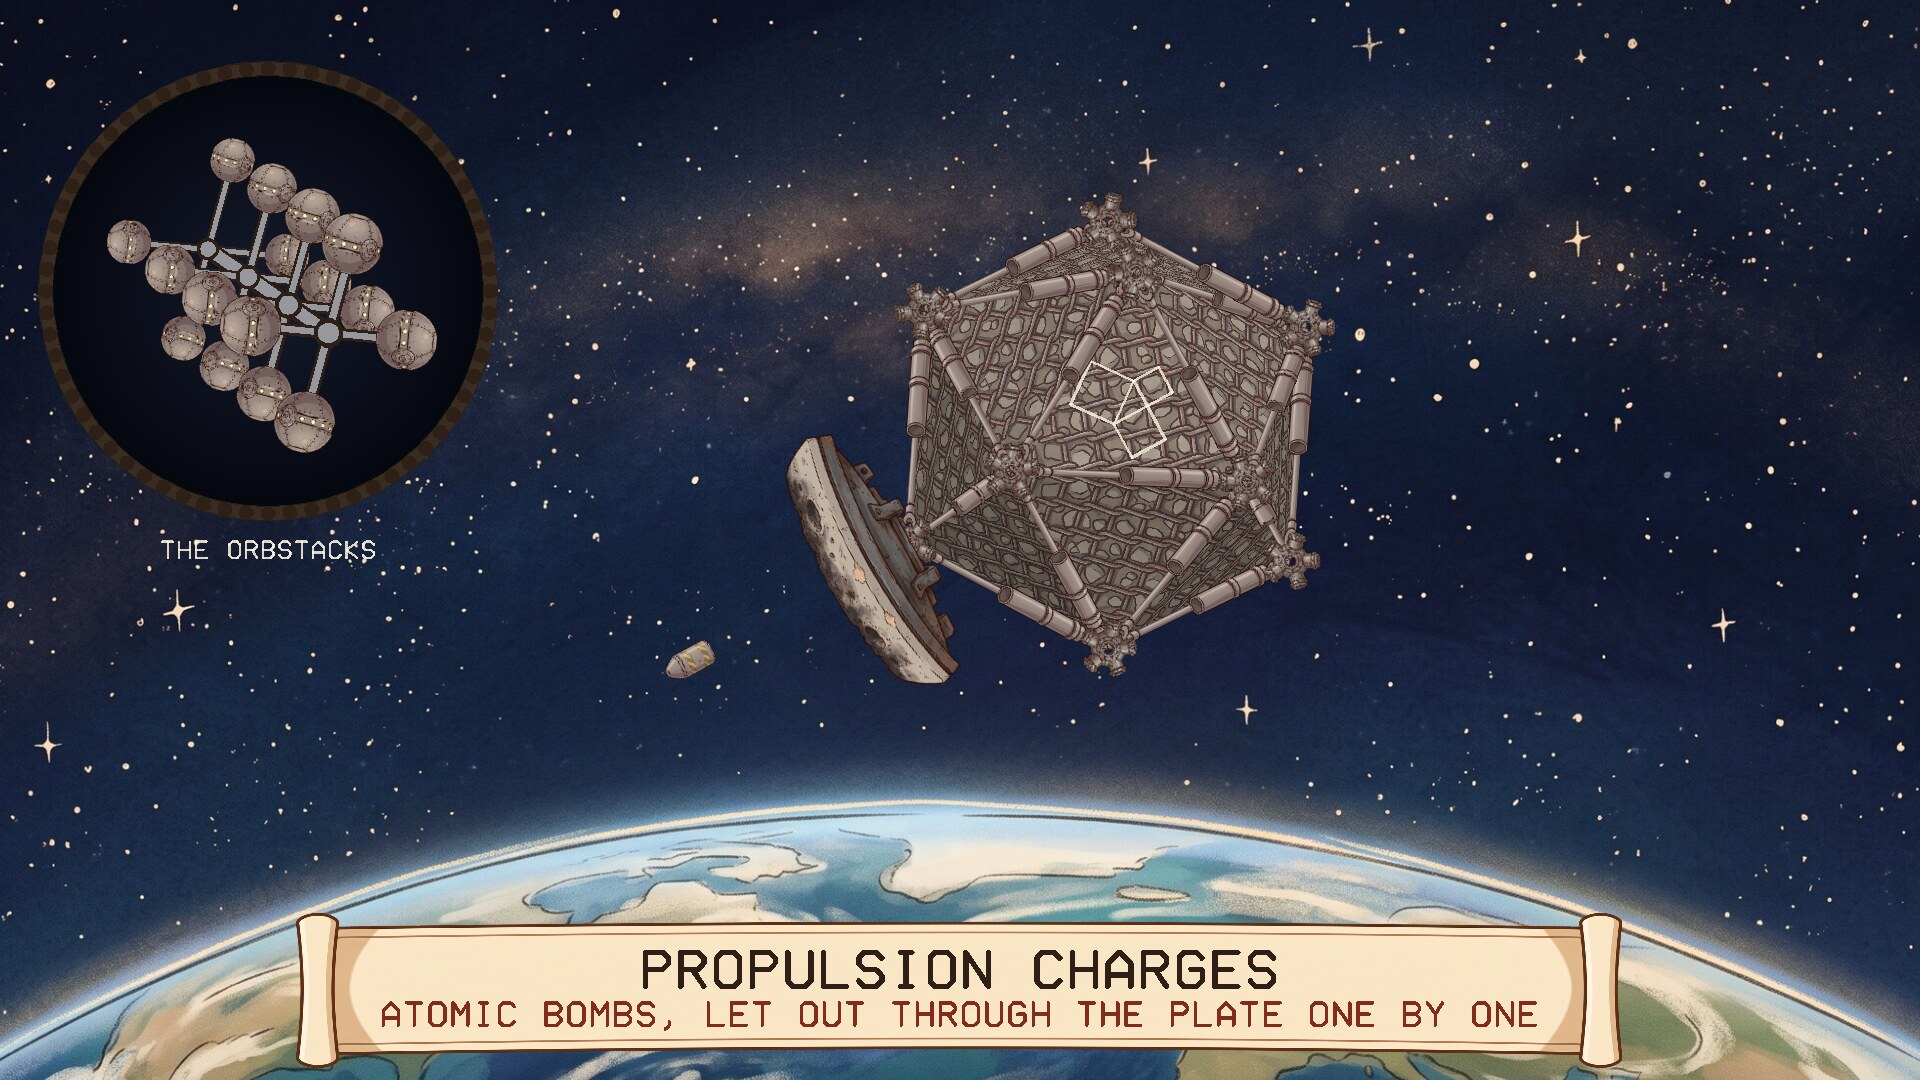
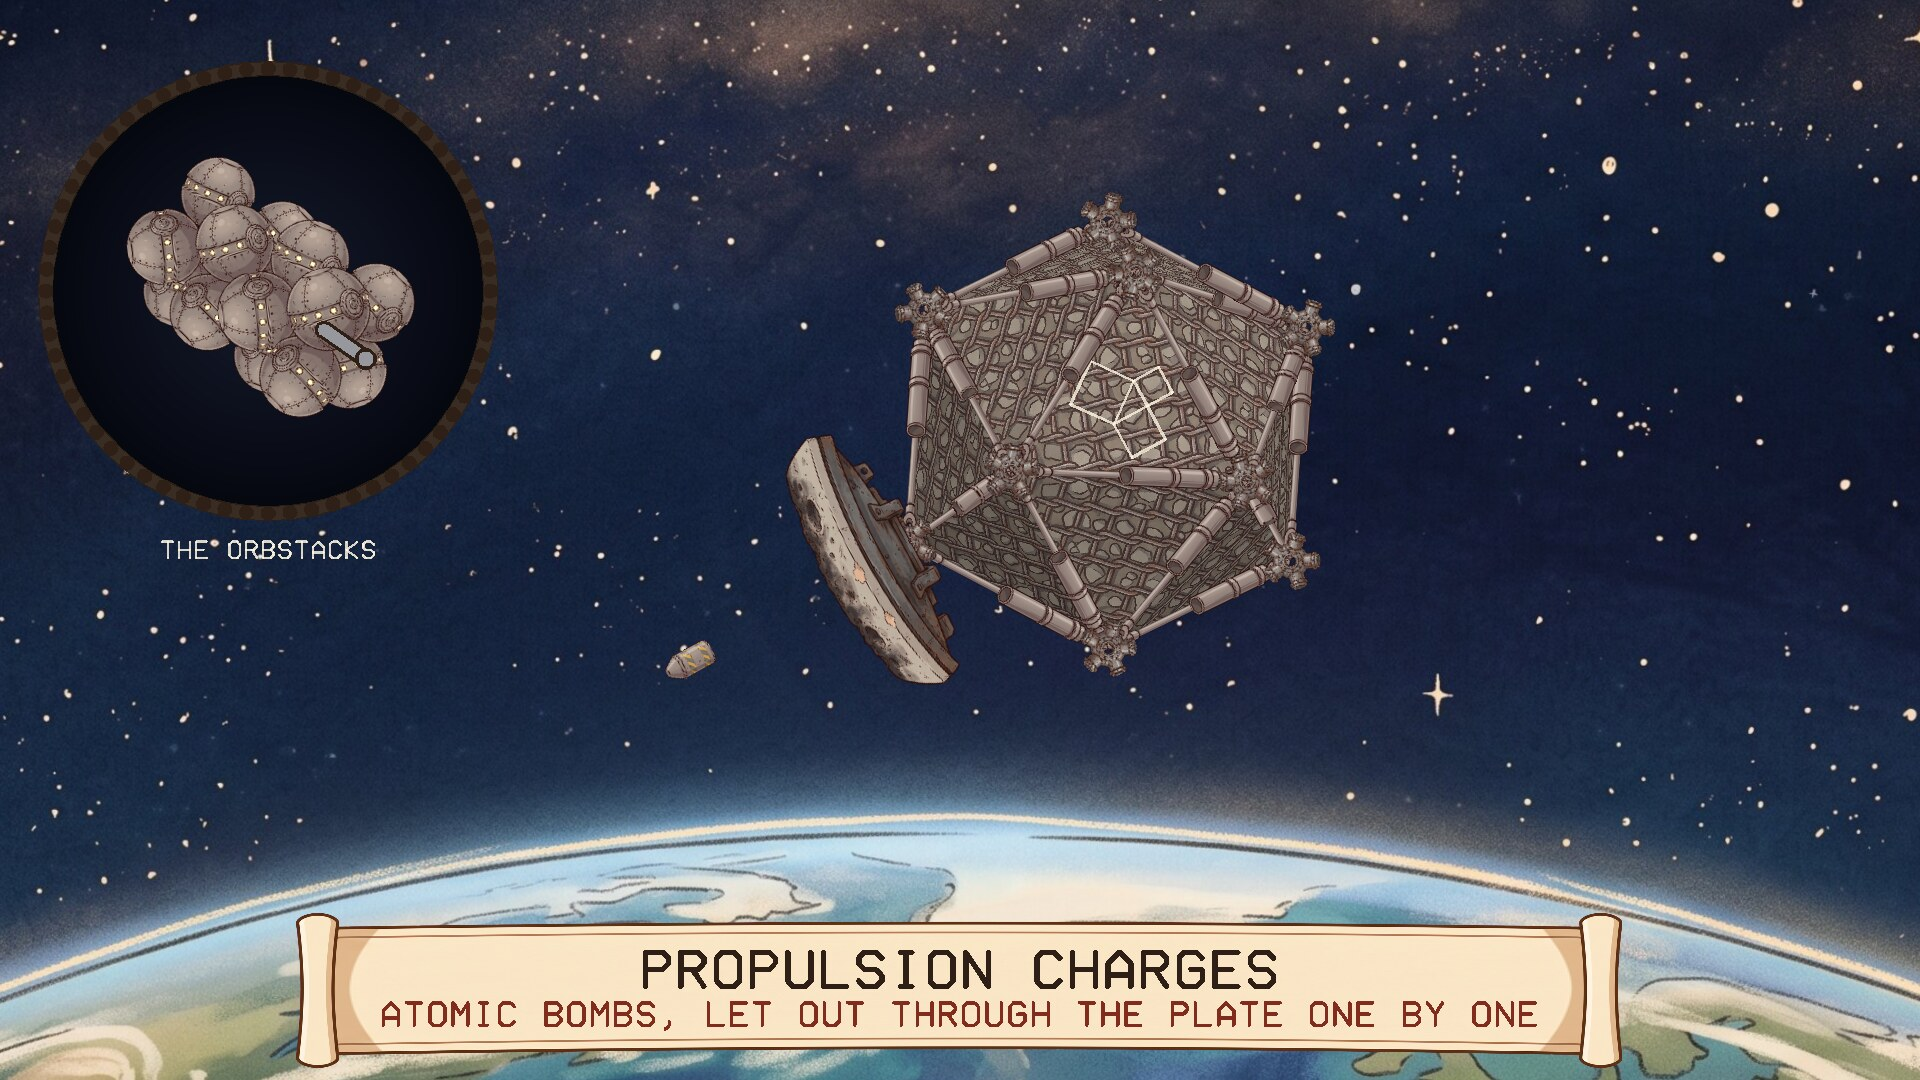
Nested orbstacks, and Arbre going by underneath

diff --git a/src/urnud.c b/src/urnud.c
@@ -478,7 +478,7 @@ static void caption(const char **l1, const char **l2)
 {
     static char count[64];
     *l1 = "THE DABAN URNUD"; *l2 = "THE GEOMETERS' SHIP, IN ORBIT ABOUT ARBRE";
-    if (T > 8) { *l1 = "INSIDE, THE ORBSTACKS TURN ABOUT THE CORE"; *l2 = "SIXTEEN ORBS, FOUR FOR EACH RACE: URNUD, TRO, LATERRE AND FTHOS"; }
+    if (T > 8) { *l1 = "INSIDE, THE ORBSTACKS TURN ABOUT THE CORE"; *l2 = "FOUR LEVELS OF FOUR ORBS, EACH NESTED IN THE HOLLOWS OF THE LAST"; }
     if (T >= T_TURN) { *l1 = "A CHANGE OF COURSE"; *l2 = "NO THRUSTERS: COUNTERWEIGHTS ON TRACKS INSIDE SWING IT ROUND"; }
     if (T >= T_BURN - 3) { *l1 = "PROPULSION CHARGES"; *l2 = "ATOMIC BOMBS, LET OUT THROUGH THE PLATE ONE BY ONE"; }
     if (T >= T_BURN + 12) { *l1 = "THIRTY STRUTS, EVERY ONE A SHOCK ABSORBER"; *l2 = "THE BLOW RUNS FORWARD THROUGH THE WHOLE FRAME"; }
@@ -504,44 +504,42 @@ static void draw_caption(int w, int h, const char *l1, const char *l2)
     text(l2, w / 2.0, by + bh * 0.25 + s1 * 6 + unit * 1.2, s2, 0.9, col(CHORD, 1));
 }
 
-/* The Core in a round window, seen a little from one side so that the stacks show:
- * four rings of four orbs, one ring behind another along the Core, all going
- * round together. */
+/* The orbstacks in a round window, seen a little from one side: four levels of
+ * four orbs about the Core. The four in a level touch, and each level is turned an
+ * eighth of a turn from the last, so that its orbs nest in the hollows between
+ * the ones behind. They all go round together. */
 static void draw_core(double cx, double cy, double R)
 {
     disc(cx, cy, R * 1.06, col(STEEL, 1), col(STEEL, 1));
     disc(cx, cy, R, col(DEEP, 1), col(BG, 1));
     /* the Core points out of the picture, down and to the right; z is towards us */
-    double tilt = 0.66, ax = sin(tilt) * 0.82, ay = sin(tilt) * 0.57, az = cos(tilt);
+    double tilt = 1.05, ax = sin(tilt) * 0.82, ay = sin(tilt) * 0.57, az = cos(tilt);
     double ux = -0.57, uy = 0.82;                              /* across the Core, flat on the screen */
-    double vx = ay * 0 - az * uy, vy = az * ux - ax * 0, vz = ax * uy - ay * ux; /* and the other way across */
-    double reach = R * 0.44, gap = R * 0.37, orb = R * 0.25;
-    for (int k = 0; k < 4; k++) { /* the farthest ring first */
-        double along = (k - 1.5) * gap, hx = cx + ax * along, hy = cy + ay * along;
-        double nx = cx + ax * (along + gap), ny = cy + ay * (along + gap), size = 1 + 0.1 * (k - 1.5);
-        struct { double x, y, z, deg; } o[4];
-        for (int i = 0; i < 4; i++) {
-            double a = spin + i * M_PI / 2, c = cos(a), sn = sin(a);
-            o[i].x = hx + (ux * c + vx * sn) * reach; o[i].y = hy + (uy * c + vy * sn) * reach; o[i].z = vz * sn;
-            o[i].deg = atan2(o[i].y - hy, o[i].x - hx) * 180 / M_PI + 90;
-        }
-        for (int i = 0; i < 4; i++) for (int j = i + 1; j < 4; j++) /* far side of the ring first */
-            if (o[j].z < o[i].z) { double t[4] = {o[i].x, o[i].y, o[i].z, o[i].deg}; o[i] = o[j]; o[j].x = t[0]; o[j].y = t[1]; o[j].z = t[2]; o[j].deg = t[3]; }
-        for (int half = 0; half < 2; half++) {
-            for (int i = half * 2; i < half * 2 + 2; i++) {
-                line(hx, hy, o[i].x, o[i].y, R * 0.05 * size, col(INK, 1));
-                line(hx, hy, o[i].x, o[i].y, R * 0.028 * size, col(STEEL, 1));
-                flush(ren);
-                turned(SP_ORB, o[i].x, o[i].y, orb * size, o[i].deg);
-            }
-            if (half == 0 && k < 3) { /* the Core itself, on to the next ring, between the far orbs and the near */
-                line(hx, hy, nx, ny, R * 0.085, col(INK, 1));
-                line(hx, hy, nx, ny, R * 0.055, col(STEEL, 1));
-            }
-        }
-        disc(hx, hy, R * 0.06 * size, col(INK, 1), col(INK, 1));
-        disc(hx, hy, R * 0.042 * size, col(STEEL, 1), col(STEEL, 1));
+    double vx = -az * uy, vy = az * ux, vz = ax * uy - ay * ux; /* and the other way across */
+    double rho = R * 0.18, reach = rho * 1.4142, gap = rho * 1.682; /* touching in the ring, and nested level on level */
+    struct { double x, y, z, hx, hy, deg; } o[16], t;
+    for (int k = 0; k < 4; k++) for (int i = 0; i < 4; i++) {
+        double along = (k - 1.5) * gap, a = spin + i * M_PI / 2 + k * M_PI / 4, c = cos(a), sn = sin(a);
+        int n = k * 4 + i;
+        o[n].hx = cx + ax * along; o[n].hy = cy + ay * along;
+        o[n].x = o[n].hx + (ux * c + vx * sn) * reach; o[n].y = o[n].hy + (uy * c + vy * sn) * reach;
+        o[n].z = az * along + vz * sn * reach;
+        o[n].deg = atan2(o[n].y - o[n].hy, o[n].x - o[n].hx) * 180 / M_PI + 90;
     }
+    for (int i = 0; i < 16; i++) for (int j = i + 1; j < 16; j++) if (o[j].z < o[i].z) { t = o[i]; o[i] = o[j]; o[j] = t; }
+    double e0 = -2.1 * gap, e1 = 2.1 * gap;
+    line(cx + ax * e0, cy + ay * e0, cx + ax * e1, cy + ay * e1, R * 0.085, col(INK, 1));
+    line(cx + ax * e0, cy + ay * e0, cx + ax * e1, cy + ay * e1, R * 0.055, col(STEEL, 1));
+    flush(ren);
+    for (int n = 0; n < 16; n++) {
+        double size = 1 + 0.12 * o[n].z / (2 * gap);
+        turned(SP_ORB, o[n].x, o[n].y, 2 * rho * size, o[n].deg);
+    }
+    /* the near end of the Core, standing out in front of the nearest level */
+    line(cx + ax * 1.2 * gap, cy + ay * 1.2 * gap, cx + ax * e1, cy + ay * e1, R * 0.085, col(INK, 1));
+    line(cx + ax * 1.2 * gap, cy + ay * 1.2 * gap, cx + ax * e1, cy + ay * e1, R * 0.055, col(STEEL, 1));
+    disc(cx + ax * e1, cy + ay * e1, R * 0.05, col(INK, 1), col(INK, 1));
+    disc(cx + ax * e1, cy + ay * e1, R * 0.034, col(STEEL, 1), col(STEEL, 1));
     ring(cx, cy, R * 1.03, R * 0.07, col(INK, 0.9));
     flush(ren);
 }
@@ -552,10 +550,18 @@ static void draw_scene(SDL_Renderer *r, int w, int h)
     unit = (w < h ? w : h) * 0.0125;
     SDL_SetRenderDrawColor(r, BG.r, BG.g, BG.b, 255);
     SDL_RenderClear(r);
-    /* space, a little larger than the screen, sliding back as the ship gathers way */
-    double over = 0.12, drift = 1 - exp(-travelled * 0.035), a0 = turn_to * M_PI / 180;
-    double bx = -w * over / 2 - cos(a0) * drift * w * over * 0.45, by = -h * over / 2 - sin(a0) * drift * h * over * 0.45;
-    pic_part(SP_SPACE, bx + sin(anim_t * 0.05) * unit, by, w * (1 + over), h * (1 + over), 0, 1, 0, 0);
+    /* Arbre goes by underneath. The picture is turned slowly about the middle of the
+     * planet, far below the screen, so the ground slides back under the ship while
+     * the horizon stays where it is; the burn hurries it. It is drawn large enough
+     * to cover the screen however far it has turned. */
+    {
+        const double CX = 0.4966, CY = 1.3475, RAD = 0.9555, BIG = 1.6; /* the planet in the picture, in picture-widths */
+        double deg = 7.5 - 15.0 * T / ROUND - 1.5 * (1 - exp(-travelled * 0.05));
+        double pw = BIG * w, phh = pw * sprite[SP_SPACE].h / sprite[SP_SPACE].w;
+        SDL_FRect dst = {(float)(w * 0.5 - CX * pw), (float)(h * 0.74 + RAD * pw - CY * pw), (float)pw, (float)phh};
+        SDL_FPoint pivot = {(float)(CX * pw), (float)(CY * pw)};
+        if (cur_tex && cur_tex[SP_SPACE]) SDL_RenderCopyExF(r, cur_tex[SP_SPACE], NULL, &dst, deg, &pivot, SDL_FLIP_NONE);
+    }
 
     double since = T - last_burst, glare = since >= 0 && since < 0.5 ? 1 - since / 0.5 : 0;
     double shake = glare * glare * unit * 0.5;

diff --git a/tools/make_sprites.py b/tools/make_sprites.py
@@ -106,7 +106,7 @@ def main():
         subprocess.run(["magick", "-size", f"{part.shape[1]}x{part.shape[0]}", "-depth", "8", "RGB:-", "-resize", "600x600>",
                         "-quality", "92", f"{OUT}/{name}.jpg"], input=np.ascontiguousarray(part).tobytes(), check=True)
         print(name, part.shape[1], part.shape[0])
-    subprocess.run(["magick", f"{SRC}/space.jpeg", "-resize", "2200x1238!", "-quality", "90", f"{OUT}/space.jpg"], check=True)
+    subprocess.run(["magick", f"{SRC}/space.jpeg", "-resize", "2752x1536!", "-quality", "86", f"{OUT}/space.jpg"], check=True)
     print("space")
 
 if __name__ == "__main__":

diff --git a/README.md b/README.md
@@ -20,9 +20,10 @@ theorem.
 
 One change of course, about a minute and a half, then another at a different angle.
 
-- **In orbit.** The ship coasts over Arbre. A round window shows the orbstacks inside:
-  four rings of four orbs, one behind another along the Core, all going round.
-  They never stop.
+- **In orbit.** The ship coasts over Arbre. Arbre slides by underneath. A round window shows the
+  orbstacks inside: four levels of four orbs about the Core, the four in a level
+  touching, and each level turned an eighth of a turn so that it nests in the
+  hollows of the last. They all go round together and never stop.
 - **The turn.** No thrusters. Counterweights run round tracks inside the ship,
   out of sight, and the ship swings round the other way.
 - **The burn.** A charge drops out through the plate every second or two, flies a
@@ -48,7 +49,8 @@ I worked from memory of the book and from what readers told me, not from the tex
 so treat this as a fan's picture and not a reference.
 
 From the book, as far as I know: the icosahedron whose struts are shock absorbers,
-the gravel skin, the sixteen orbs in four groups turning about the Core, the four
+the gravel skin, the sixteen orbs in four nested levels of four turning about the
+Core (the book's later descriptions pack them more loosely; this is the first one), the four
 races, propulsion by atomic charges against a pusher plate, turning by
 counterweights on internal tracks, the Adrakhonic theorem on the hull, and the burn
 being seen from Arbre as a string of sparks.
@@ -63,7 +65,7 @@ Packages are on the [releases page](../../releases).
 
 ### Windows
 
-Run `DabanUrnud-Setup-1.0.2.exe`. It asks for administrator rights, because Windows
+Run `DabanUrnud-Setup-1.0.3.exe`. It asks for administrator rights, because Windows
 only lists screensavers that are in its own system folder. After that "The Daban
 Urnud" is in Screen Saver Settings with the others, already selected. Uninstall from
 Apps.
@@ -72,11 +74,11 @@ Apps.
 
 **Fedora, Nobara** (built on Fedora 44):
 
-    sudo dnf install ./daban-urnud-1.0.2-1.fc44.x86_64.rpm
+    sudo dnf install ./daban-urnud-1.0.3-1.fc44.x86_64.rpm
 
 **Debian, Ubuntu, Mint** (Ubuntu 24.04 / Debian 13 or later):
 
-    sudo apt install ./daban-urnud_1.0.2_amd64.deb
+    sudo apt install ./daban-urnud_1.0.3_amd64.deb
 
 From your next login it starts by itself after five minutes idle, and any key or
 mouse movement ends it. To start the watcher without logging out, or to change the
